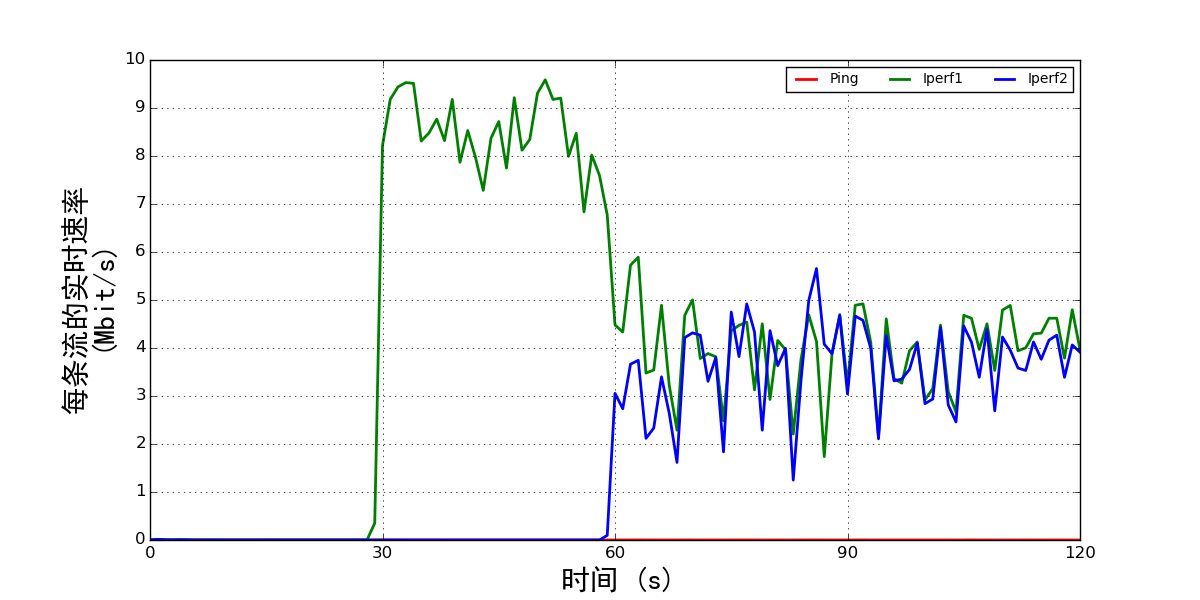
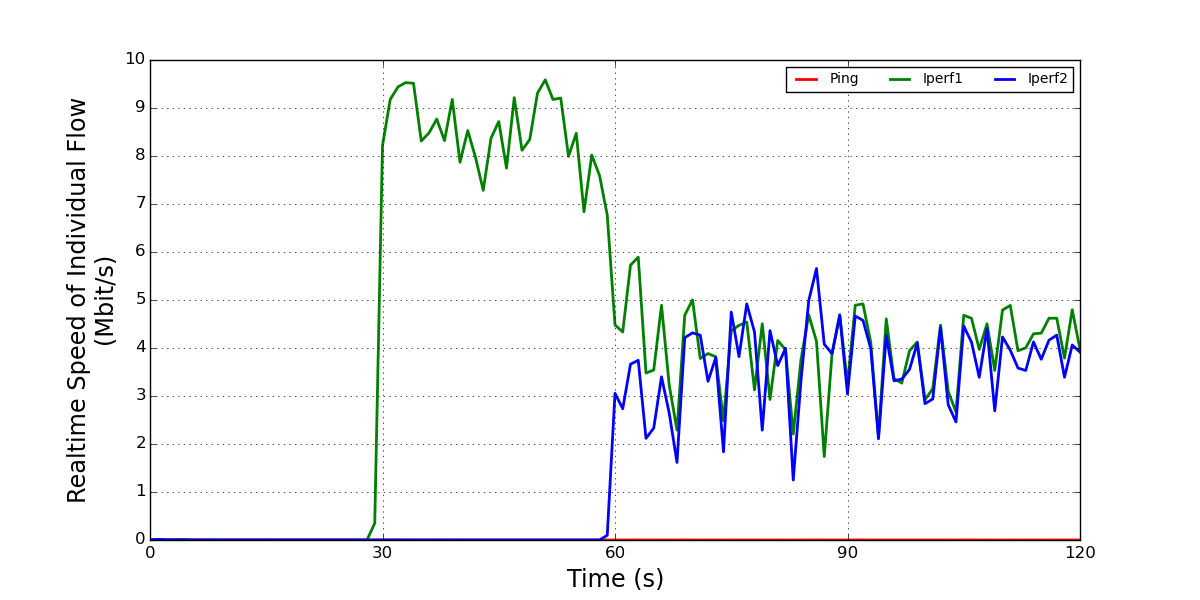
modify the plot results

Changed region(s): [[0.0308, 0.27, 0.0925, 0.84], [0.4625, 0.93, 0.555, 0.99], [0.0617, 0.18, 0.0925, 0.24]]

diff --git a/plot_results_Chinese.py b/plot_results_Chinese.py
@@ -193,11 +193,11 @@ def plot_results():
 	plt.xlabel(u'时间 (s)', fontsize='xx-large', fontproperties=chinese_font)
 	plt.xlim(0, 120)
 	plt.xticks(np.arange(0, 121, 30))
-	plt.ylabel(u'总吞吐量\n(Mbit)', fontsize='xx-large', fontproperties=chinese_font)
+	plt.ylabel(u'网络总吞吐量\n(Mbit)', fontsize='xx-large', fontproperties=chinese_font)
 	plt.ylim(0, utmost_throughput)
 	plt.yticks(np.linspace(0, utmost_throughput, 11))
 	plt.grid(True)
-	plt.savefig('./results/1.total_throughput.png')
+	plt.savefig('./results/1.network_total_throughput.png')
 
 	# 2. Plot realtime speed of individual flow.
 	fig = plt.figure()
@@ -232,11 +232,11 @@ def plot_results():
 	plt.xlabel(u'时间 (s)', fontsize='xx-large', fontproperties=chinese_font)
 	plt.xlim(0, 120)
 	plt.xticks(np.arange(0, 121, 30))
-	plt.ylabel(u'实时吞吐量\n(Mbit/s)', fontsize='xx-large', fontproperties=chinese_font)
+	plt.ylabel(u'网络单位时间吞吐量\n(Mbit/s)', fontsize='xx-large', fontproperties=chinese_font)
 	plt.ylim(0, bandwidth)
 	plt.yticks(np.linspace(0, bandwidth, 11))
 	plt.grid(True)
-	plt.savefig('./results/3.realtime_throught.png')
+	plt.savefig('./results/3.network_unit_time_throught.png')
 
 	# 4. Plot round-trip delay of ping traffic.
 	fig = plt.figure()

diff --git a/plot_results.py b/plot_results.py
@@ -178,11 +178,11 @@ def plot_results():
 	plt.xlabel('Time (s)', fontsize='x-large')
 	plt.xlim(0, 120)
 	plt.xticks(np.arange(0, 121, 30))
-	plt.ylabel('Total Throughput\n(Mbit)', fontsize='x-large')
+	plt.ylabel('Network Total Throughput\n(Mbit)', fontsize='x-large')
 	plt.ylim(0, utmost_throughput)
 	plt.yticks(np.linspace(0, utmost_throughput, 11))
 	plt.grid(True)
-	plt.savefig('./results/1.total_throughput.png')
+	plt.savefig('./results/1.network_total_throughput.png')
 
 	# 2. Plot realtime speed of individual flow.
 	fig = plt.figure()
@@ -217,11 +217,11 @@ def plot_results():
 	plt.xlabel('Time (s)', fontsize='x-large')
 	plt.xlim(0, 120)
 	plt.xticks(np.arange(0, 121, 30))
-	plt.ylabel('Realtime Throughput\n(Mbit/s)', fontsize='x-large')
+	plt.ylabel('Network Unit Time Throughput\n(Mbit/s)', fontsize='x-large')
 	plt.ylim(0, bandwidth)
 	plt.yticks(np.linspace(0, bandwidth, 11))
 	plt.grid(True)
-	plt.savefig('./results/3.realtime_throught.png')
+	plt.savefig('./results/3.network_unit_time_throught.png')
 
 	# 4. Plot round-trip delay of ping traffic.
 	fig = plt.figure()
